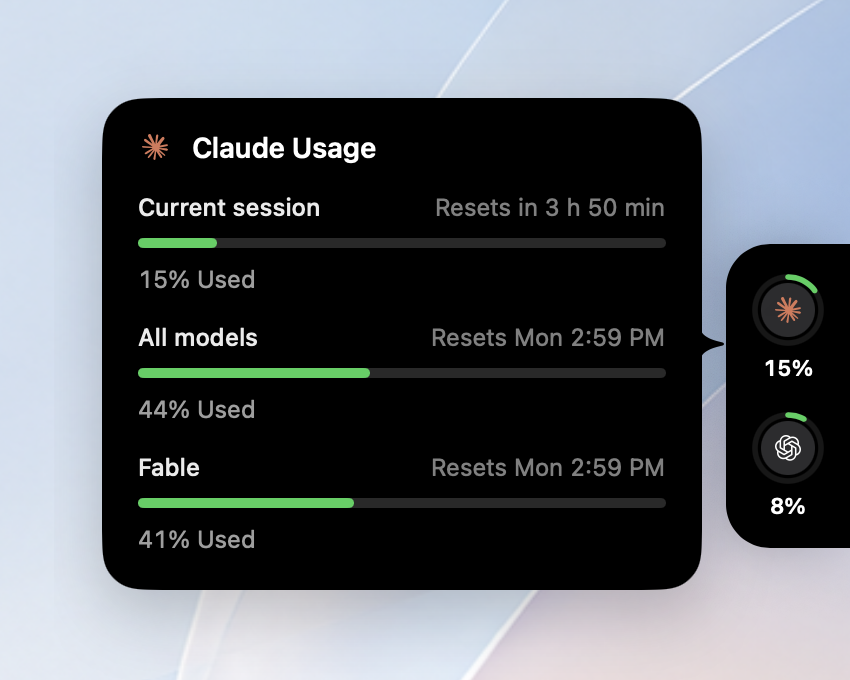
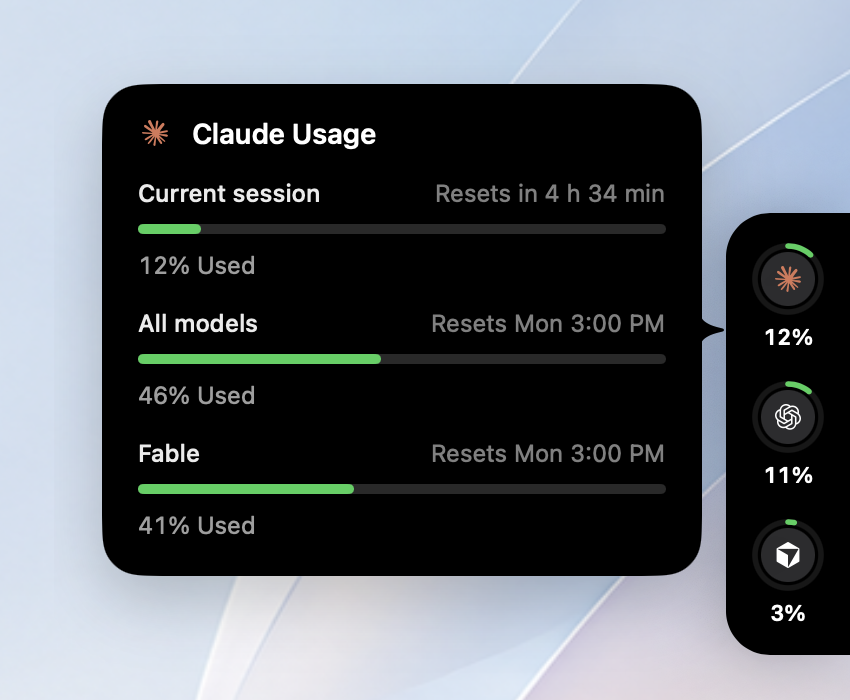
Update the README screenshot to show Cursor
The old shot predated the third provider, so the README advertised two rings
for an app that now has three.

diff --git a/README.md b/README.md
@@ -15,7 +15,7 @@ to paste and no account to create.
 
 <p align="center">
   <img src="assets/panel.png" width="760"
-       alt="Mana's panel slid out from the right screen edge: a card showing Claude's current session at 15%, weekly all-models at 44% and weekly Fable at 41% with reset times, next to usage rings for Claude and ChatGPT.">
+       alt="Mana's panel slid out from the right screen edge: a card showing Claude's current session at 12%, weekly all-models at 46% and weekly Fable at 41% with reset times, next to usage rings for Claude, ChatGPT and Cursor.">
 </p>
 
 ## Install
